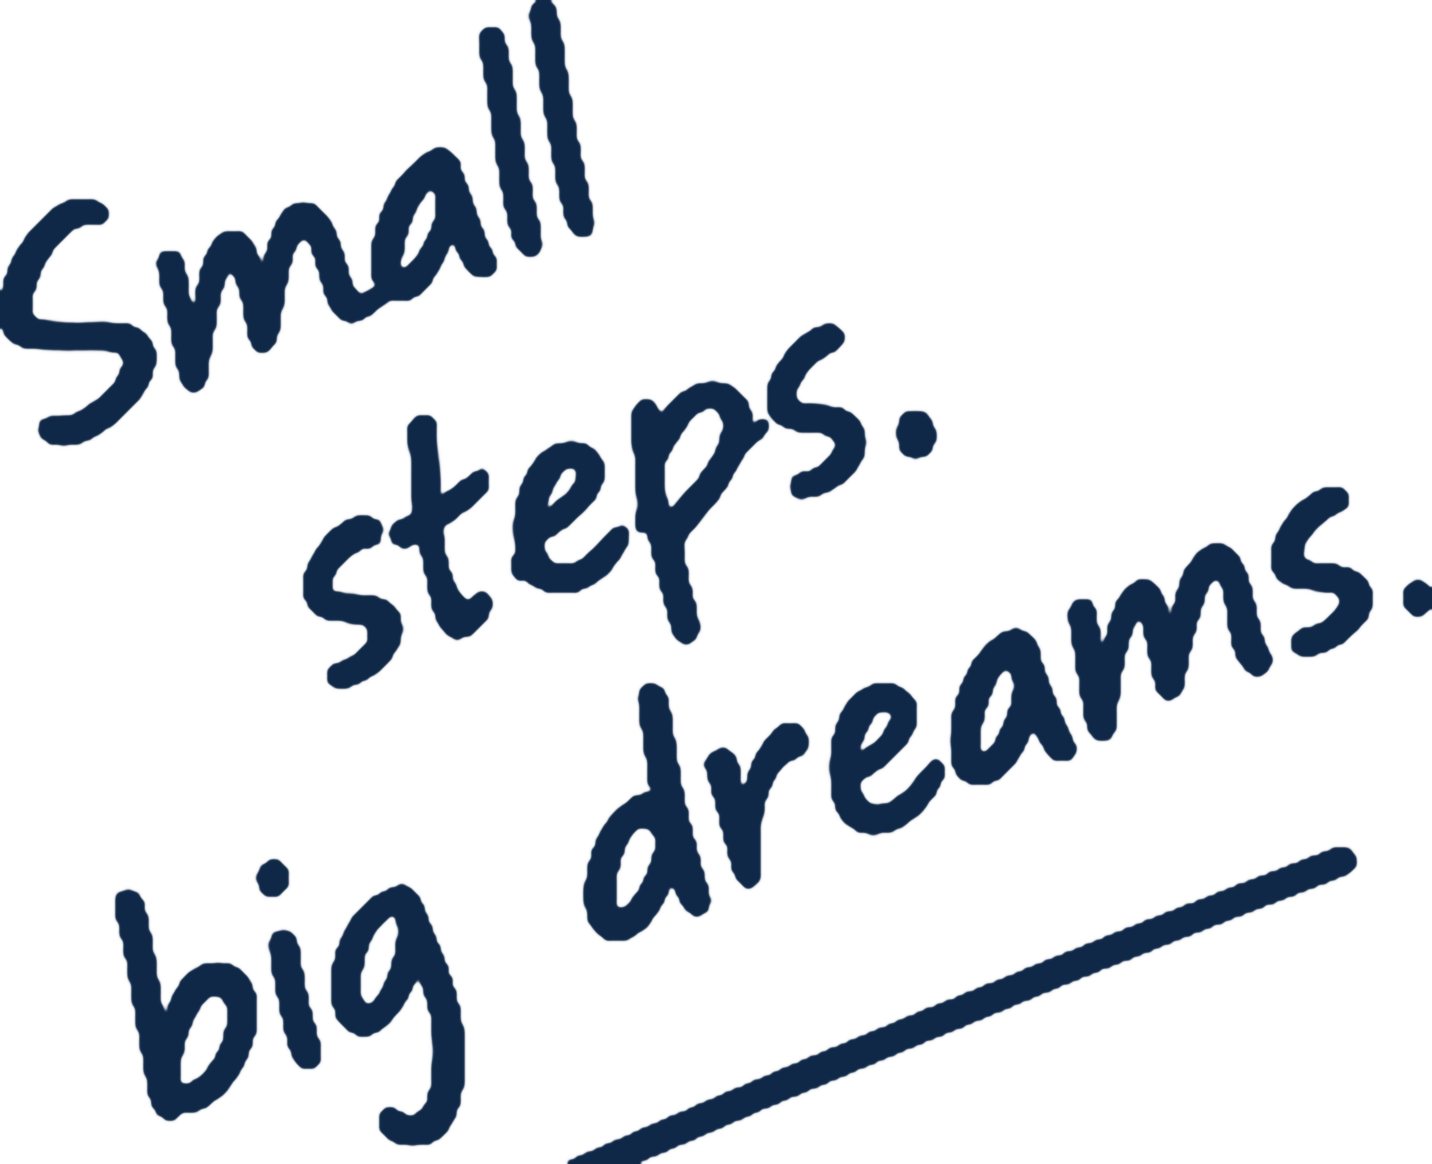
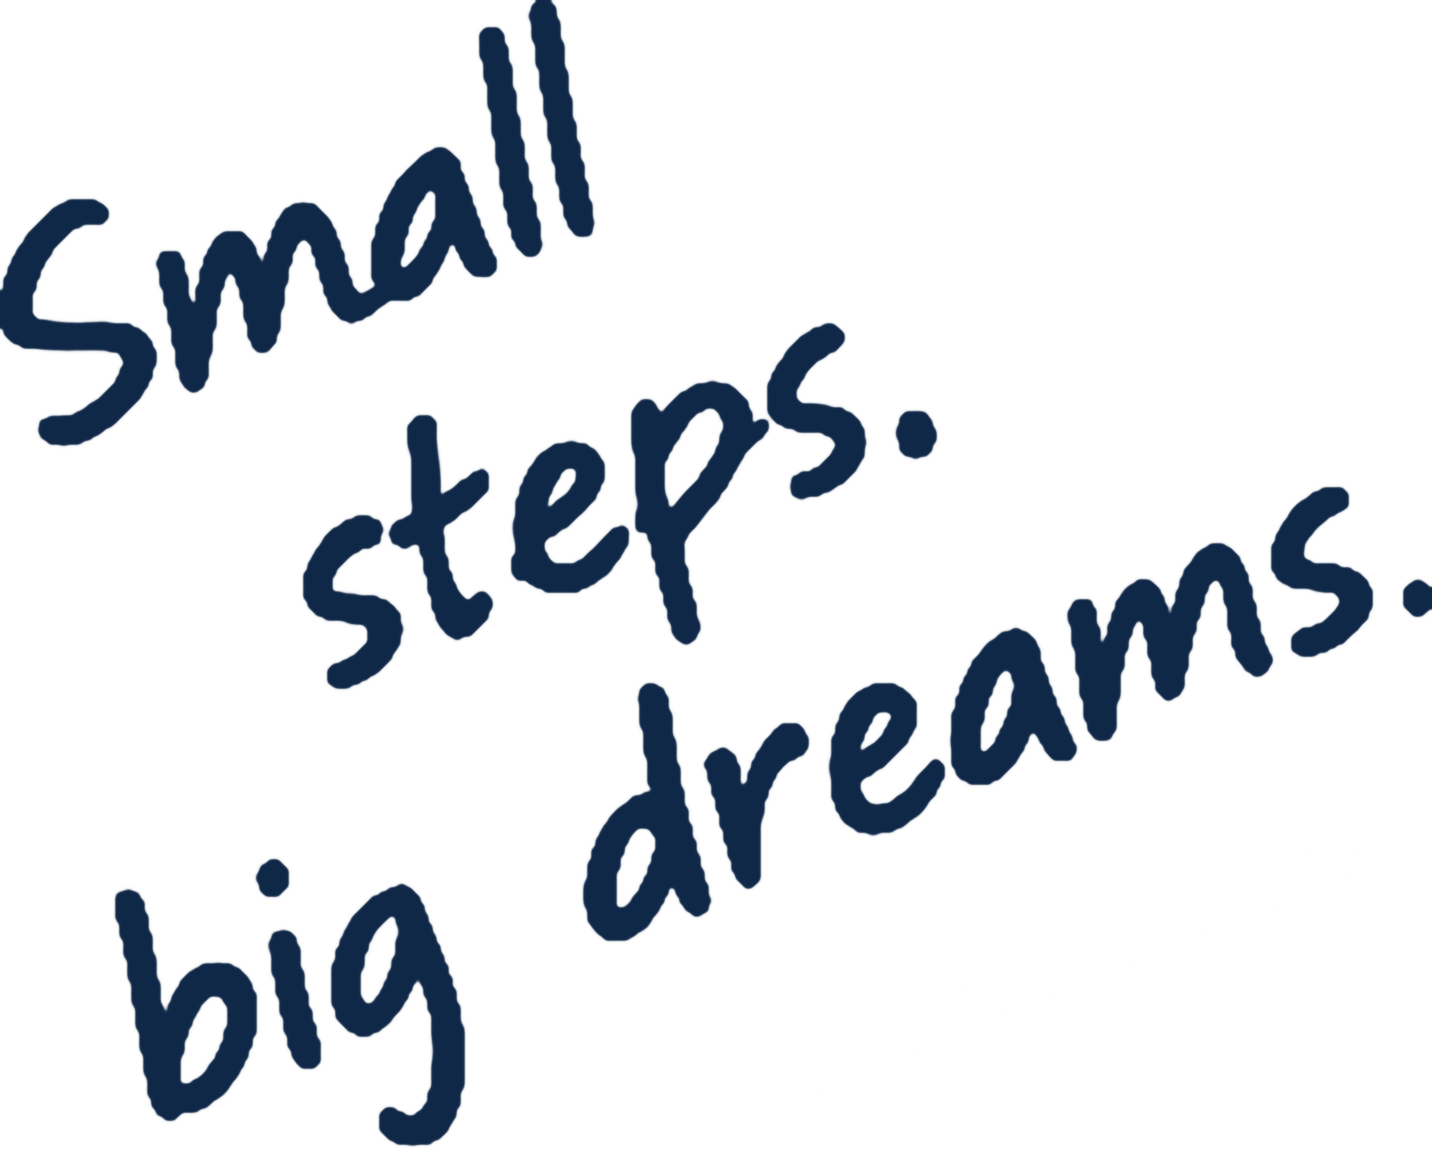
fix(hero): remove underline stroke directly under 'big dreams' text

Changed region(s): [[0.3994, 0.7113, 0.9525, 1.0]]

diff --git a/src/components/InteractiveHeroArtwork.tsx b/src/components/InteractiveHeroArtwork.tsx
@@ -330,19 +330,6 @@ export function InteractiveHeroArtwork() {
             >
               big dreams.
             </text>
-
-            {/* Dynamic Hand-Drawn Underline under "big dreams." */}
-            <path
-              d="M 270 292 Q 330 286, 395 272"
-              stroke="#0F2747"
-              strokeWidth="4.5"
-              strokeLinecap="round"
-              className="transition-all duration-300"
-              style={{
-                strokeDasharray: "150",
-                strokeDashoffset: isHovered ? "0" : "15",
-              }}
-            />
           </g>
         </svg>
       </div>
